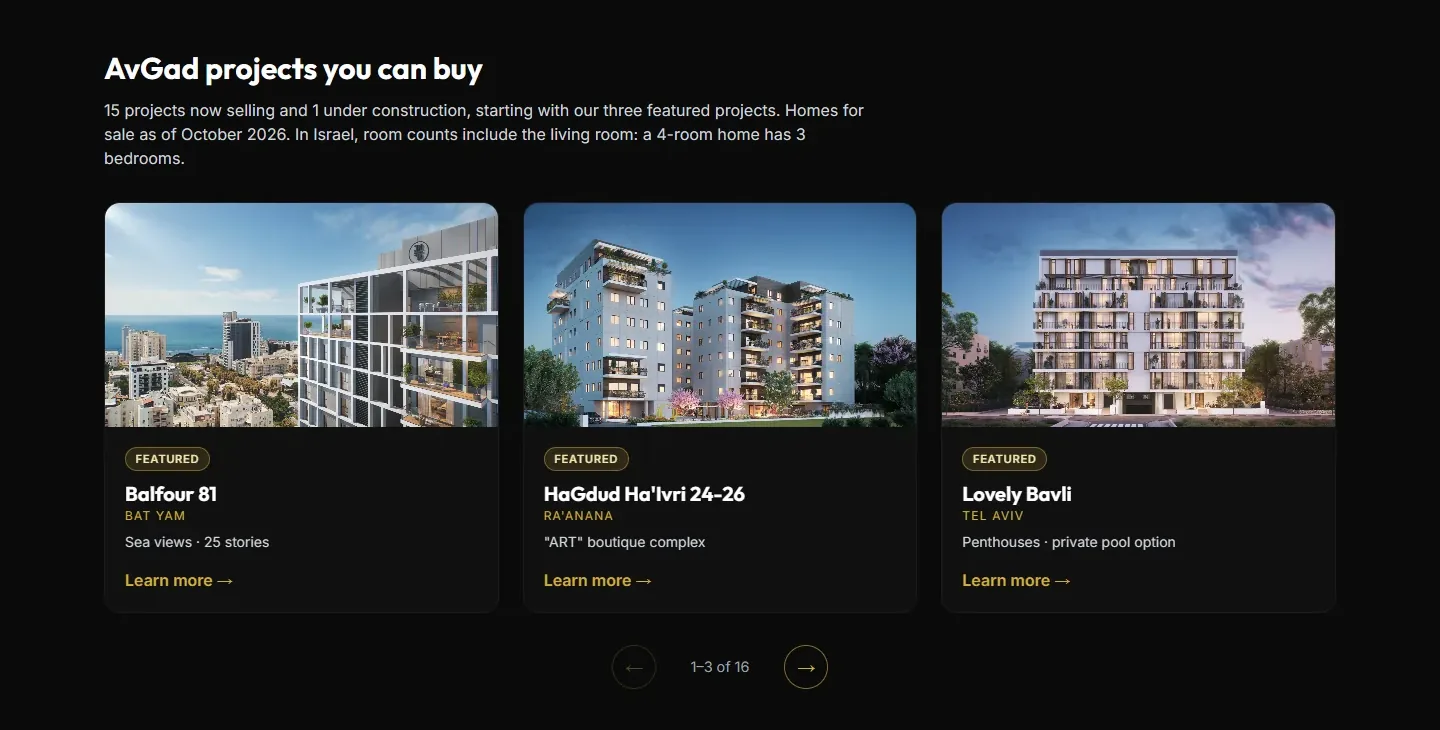
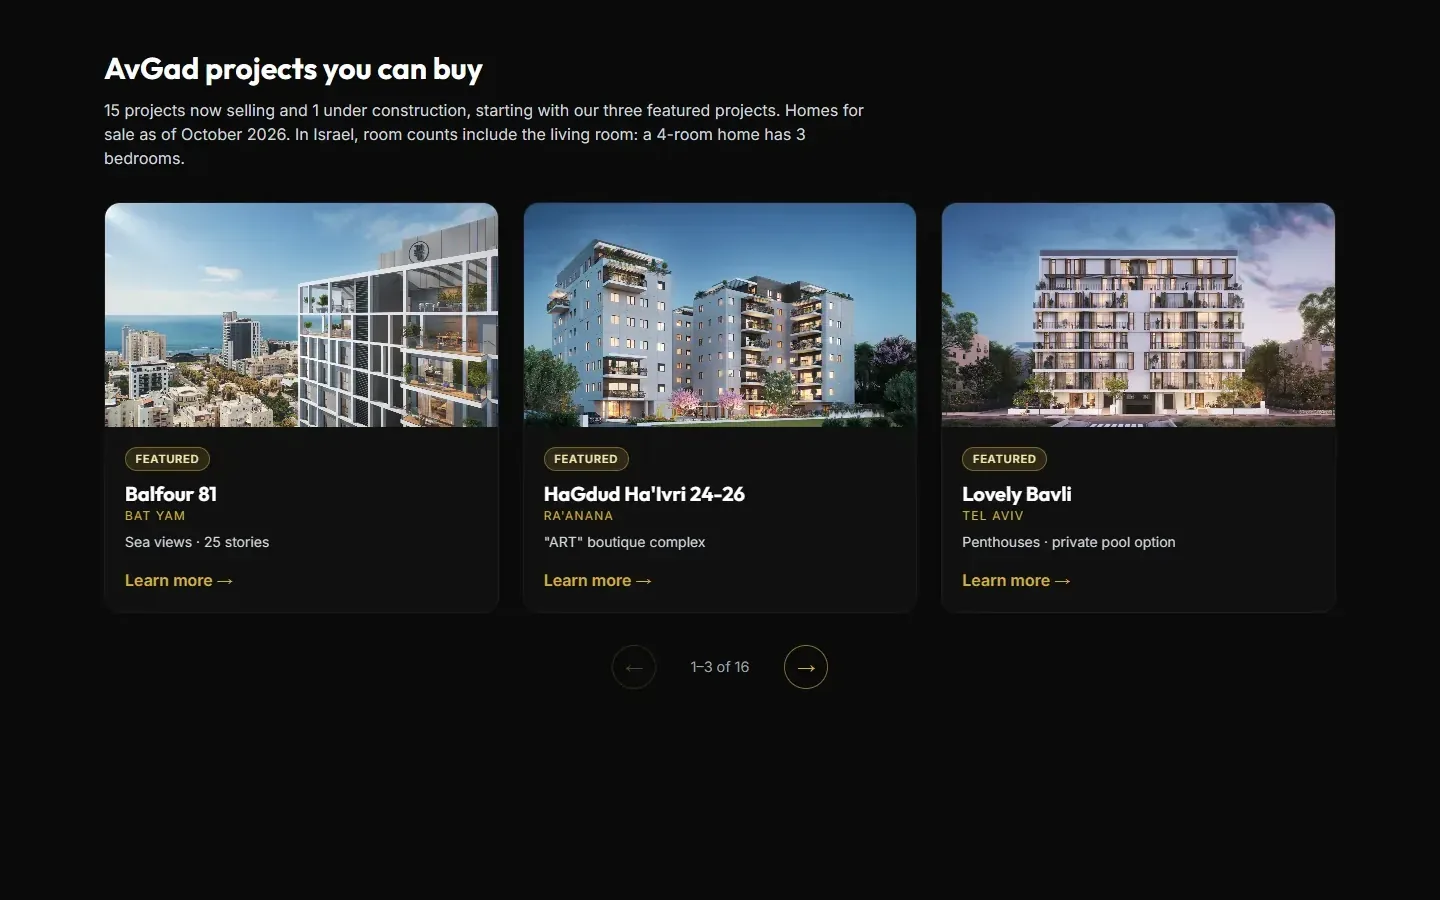
Responsive fixes: tablet menu, no sideways widening on phones, big-screen scale, Israel shot ratio

diff --git a/src/components/layout/navbar.tsx b/src/components/layout/navbar.tsx
@@ -70,7 +70,7 @@ export function Navbar() {
           </a>
 
           {/* Desktop links */}
-          <ul className="hidden items-center gap-0.5 md:flex">
+          <ul className="hidden items-center gap-0.5 lg:flex">
             {navLinks.map((link) => {
               const id = link.href.replace("#", "");
               const isActive = active === id;
@@ -100,7 +100,7 @@ export function Navbar() {
           </ul>
 
           {/* Desktop CTAs */}
-          <div className="hidden items-center gap-2 md:flex">
+          <div className="hidden items-center gap-2 lg:flex">
             <Button asChild variant="ghost" size="sm">
               <a href={siteConfig.resumeUrl} target="_blank" rel="noopener noreferrer">
                 Resume
@@ -116,14 +116,14 @@ export function Navbar() {
           {/* Mobile menu */}
           <DialogPrimitive.Root open={mobileOpen} onOpenChange={setMobileOpen}>
             <DialogPrimitive.Trigger
-              className="flex size-10 items-center justify-center rounded-md text-fg md:hidden"
+              className="flex size-10 items-center justify-center rounded-md text-fg lg:hidden"
               aria-label="Open menu"
             >
               <Menu className="size-6" />
             </DialogPrimitive.Trigger>
             <DialogPrimitive.Portal>
-              <DialogPrimitive.Overlay className="fixed inset-0 z-50 bg-black/60 backdrop-blur-sm data-[state=open]:animate-in data-[state=closed]:animate-out data-[state=open]:fade-in-0 data-[state=closed]:fade-out-0 md:hidden" />
-              <DialogPrimitive.Content className="glass-strong fixed inset-y-0 right-0 z-50 flex w-[82%] max-w-sm flex-col gap-2 p-6 shadow-[var(--shadow-ambient-lg)] data-[state=open]:animate-in data-[state=closed]:animate-out data-[state=open]:slide-in-from-right data-[state=closed]:slide-out-to-right md:hidden">
+              <DialogPrimitive.Overlay className="fixed inset-0 z-50 bg-black/60 backdrop-blur-sm data-[state=open]:animate-in data-[state=closed]:animate-out data-[state=open]:fade-in-0 data-[state=closed]:fade-out-0 lg:hidden" />
+              <DialogPrimitive.Content className="glass-strong fixed inset-y-0 right-0 z-50 flex w-[82%] max-w-sm flex-col gap-2 p-6 shadow-[var(--shadow-ambient-lg)] data-[state=open]:animate-in data-[state=closed]:animate-out data-[state=open]:slide-in-from-right data-[state=closed]:slide-out-to-right lg:hidden">
                 <div className="mb-4 flex items-center justify-between">
                   <DialogPrimitive.Title className="font-display text-lg font-semibold tracking-wide text-fg-strong">
                     Harry <span className="font-light italic text-gold">Cabrera</span>

diff --git a/src/app/globals.css b/src/app/globals.css
@@ -125,6 +125,18 @@
     border-color: var(--color-border);
   }
 
+  /* Big monitors: scale the whole rem-based layout up so it doesn't sit small in the middle. */
+  @media (min-width: 1800px) {
+    html {
+      font-size: 112.5%;
+    }
+  }
+  @media (min-width: 2400px) {
+    html {
+      font-size: 125%;
+    }
+  }
+
   html {
     scroll-behavior: smooth;
     scroll-padding-top: var(--nav-height);
@@ -132,6 +144,9 @@
   }
 
   body {
+    /* Slide-in animations start off to the side; clip them so phones never widen
+       (zoom out) the page. `clip` keeps position: sticky working, unlike `hidden`. */
+    overflow-x: clip;
     background-color: var(--color-base);
     color: var(--color-fg);
     font-family: var(--font-sans);
